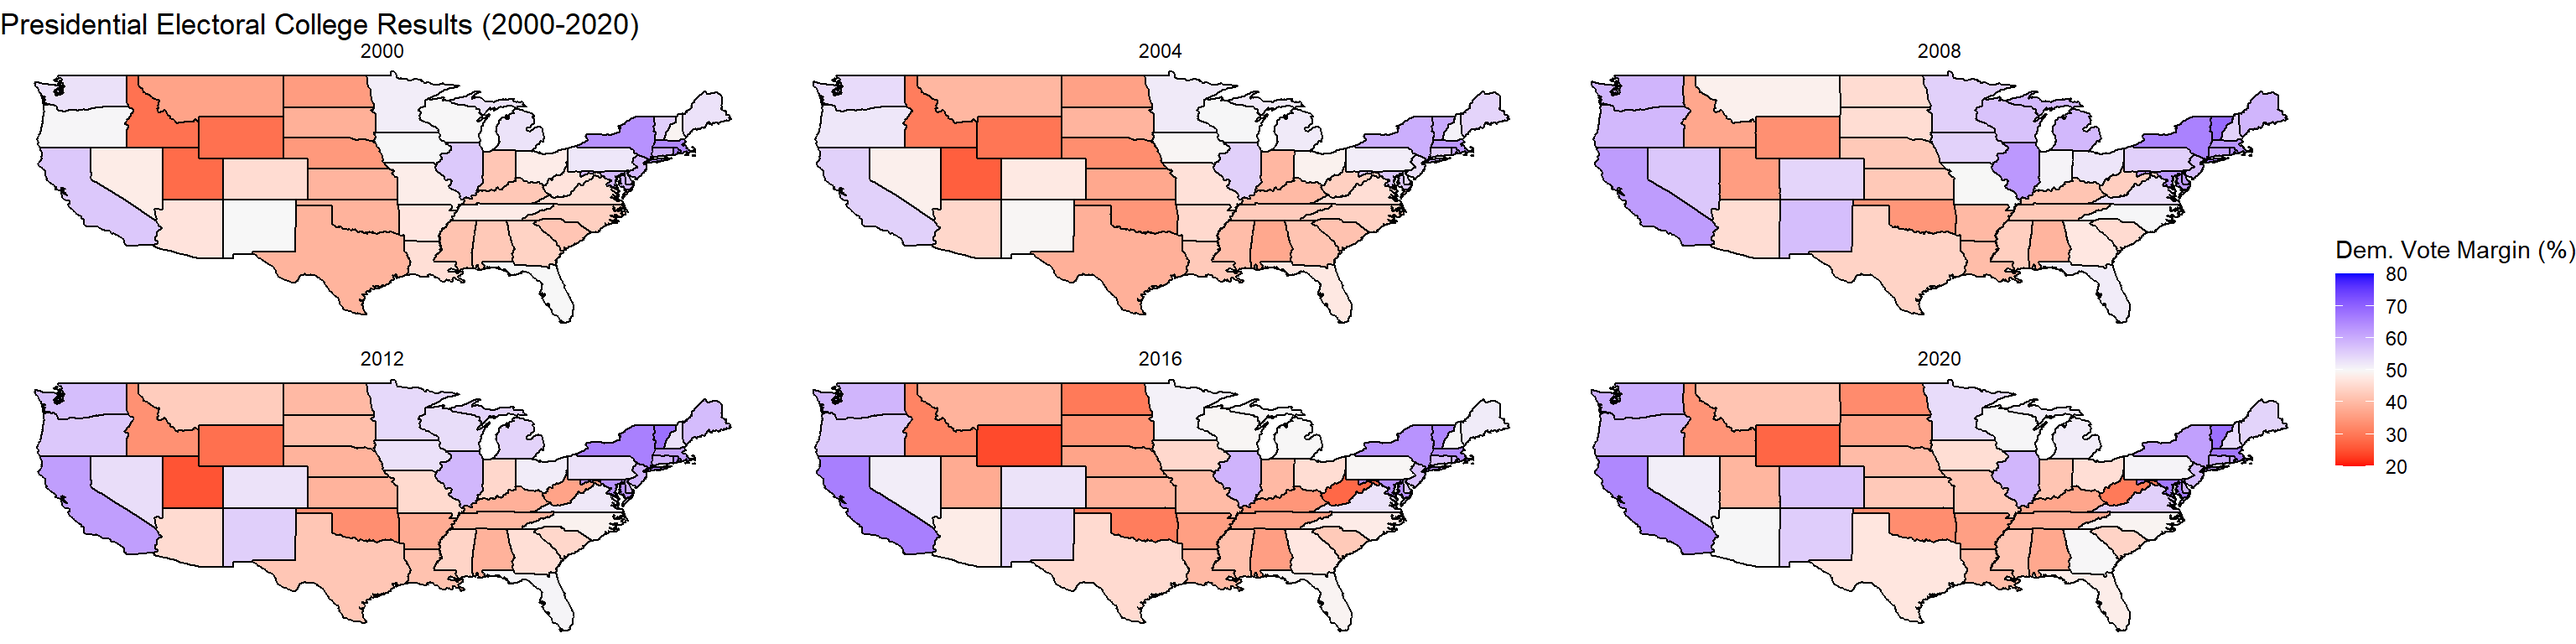
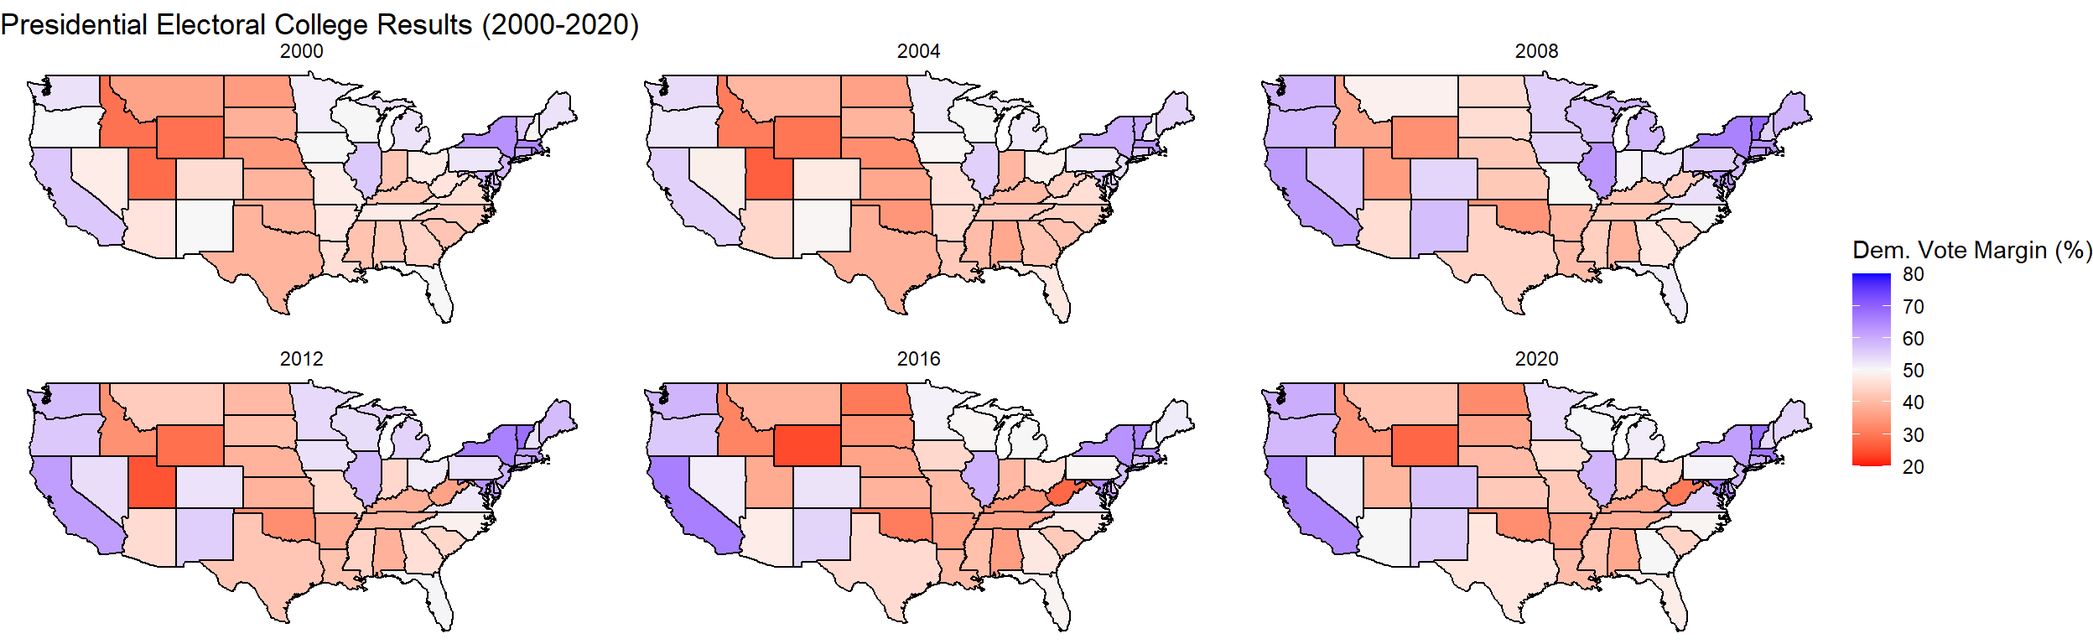
fixed dimensions prt. 3

diff --git a/public/post/2024/09/09/post-1/index.html b/public/post/2024/09/09/post-1/index.html
@@ -38,16 +38,16 @@
 <p>This is the first of a series of blog posts in which I will analyze and predict the 2024 Presidential Election. In my first post, I will analyze historical data from past presidential elections to determine how competitive presidential elections are, what states can be seen as reliable for either party, while what states are considered swing states.</p>
 <h2 id="what-states-are-competitive">What states are competitive?</h2>
 <p>To begin, I will examine the vote margins for each state in the Democratic and Republican parties&rsquo; presidential elections from 2000 to 2020. A brief overview shows that even the most partisan states had relatively close margins. Excluding D.C., every state was within 30 percentage points, and most were within 15 points. However, under the U.S. Electoral College system, whether state margins are 80-20 or 52-48, if they consistently vote for the same party, the margin does not affect the overall election outcome. The only states that genuinely impact the result are those with razor-thin margins capable of switching sides, and these states tend to be nearly white on the electoral map below.</p>
-<img src="https://example.org/post/2024/09/09/post-1/index_files/figure-html/unnamed-chunk-10-1.png" width="1536" />
+<img src="https://example.org/post/2024/09/09/post-1/index_files/figure-html/unnamed-chunk-10-1.png" width="1248" />
 <p>Certain swing states in 2000 and subsequent elections have trended towards one party, removing them from contention. Ohio and Iowa now lean Republican, while New Mexico, Oregon, and Minnesota lean Democratic. Texas appears to be inching toward swing state status but remains solidly Republican. Virginia presents an interesting case, having shifted from reliably red to reliably blue during this period.</p>
 <p>Pennsylvania, Wisconsin, Nevada, and Michigan have consistently been swing states throughout this period, including the most recent election. Conversely, Arizona, Georgia, and North Carolina have shifted from being reliably Republican to competitive. Florida is difficult to gauge; while its vote margins suggest swing state status, recent election results resemble those of more consistently red states like Iowa or Texas. Therefore, we&rsquo;ll reserve judgment until further analysis of more recent maps.</p>
 <h2 id="swing-map-1-2016-vs-2020">Swing Map #1: 2016 vs. 2020</h2>
 <p>This map examines the change in vote margins in each state between 2016 and 2020. As expected, most of the map is blue since a Republican won in 2016 but lost in 2020. However, a few noteworthy trends emerge. First, while much of the country shifted towards the Democrats, Florida moved further towards the Republicans. In my opinion, this shift is significant enough to remove Florida&rsquo;s status as a swing state. Florida moved towards a Republican candidate even as Republicans underperformed nationwide.</p>
-<img src="https://example.org/post/2024/09/09/post-1/index_files/figure-html/unnamed-chunk-11-1.png" width="1536" />
+<img src="https://example.org/post/2024/09/09/post-1/index_files/figure-html/unnamed-chunk-11-1.png" width="1248" />
 <p>Another interesting point is that New York and California, two Democratic strongholds, also trended Republican. These two states represent major electoral college strongholds for the Democrats. Many argue that recent trends make it unlikely for Democrats to lose the popular vote but still win the Electoral College. While this is mainly true, if these states continue to trend Republican, it could become possible in future elections.</p>
 <h2 id="swing-map-2-2012-vs-2020">Swing Map #2: 2012 vs. 2020</h2>
 <p>While the map comparing vote margins from 2016 to 2020 is interesting, there isn’t much detailed analysis to draw from it, as most of the country swung in favor of the party shift. A more fascinating comparison comes from looking at the 2012 and 2020 presidential elections, where Democratic candidates won both times. However, it’s important to note that the 2012 election was a more decisive victory for the Democrats. Obama won 126 more electoral votes than Romney, while Biden only won 74 more than Trump.</p>
-<img src="https://example.org/post/2024/09/09/post-1/index_files/figure-html/unnamed-chunk-12-1.png" width="1536" />
+<img src="https://example.org/post/2024/09/09/post-1/index_files/figure-html/unnamed-chunk-12-1.png" width="1248" />
 <p>This map supports earlier analysis. Arizona and Georgia stand out as they have become far more competitive for the Democratic Party, evolving into swing states. Conversely, Ohio, Iowa, and Florida have trended more Republican and are no longer considered swing states. Many traditional swing states in the Midwest and Nevada trended Republican, though this is expected, given that Obama won more significantly than Biden.</p>
 <p>Utah has become significantly more Democratic-leaning, though it remains far from becoming a swing state. Texas has also shifted noticeably toward the Democrats during this period, signaling its potential move toward swing state status. Interestingly, some reliably red states like Kansas and Idaho have trended more Democratic, while others, like North Dakota and West Virginia, have become significantly more Republican. I don&rsquo;t have a strong theory for why some traditionally Republican states shifted in opposite directions beyond basic immigration patterns.</p>
 <h2 id="concluding-thoughts">Concluding Thoughts</h2>

diff --git a/content/post/2024-09-06-post-1/index.md b/content/post/2024-09-06-post-1/index.md
@@ -42,7 +42,7 @@ This is the first of a series of blog posts in which I will analyze and predict 
 To begin, I will examine the vote margins for each state in the Democratic and Republican parties' presidential elections from 2000 to 2020. A brief overview shows that even the most partisan states had relatively close margins. Excluding D.C., every state was within 30 percentage points, and most were within 15 points. However, under the U.S. Electoral College system, whether state margins are 80-20 or 52-48, if they consistently vote for the same party, the margin does not affect the overall election outcome. The only states that genuinely impact the result are those with razor-thin margins capable of switching sides, and these states tend to be nearly white on the electoral map below.
 
 
-<img src="{{< blogdown/postref >}}index_files/figure-html/unnamed-chunk-10-1.png" width="1536" />
+<img src="{{< blogdown/postref >}}index_files/figure-html/unnamed-chunk-10-1.png" width="1248" />
 
 Certain swing states in 2000 and subsequent elections have trended towards one party, removing them from contention. Ohio and Iowa now lean Republican, while New Mexico, Oregon, and Minnesota lean Democratic. Texas appears to be inching toward swing state status but remains solidly Republican. Virginia presents an interesting case, having shifted from reliably red to reliably blue during this period.
 
@@ -52,7 +52,7 @@ Pennsylvania, Wisconsin, Nevada, and Michigan have consistently been swing state
 
 This map examines the change in vote margins in each state between 2016 and 2020. As expected, most of the map is blue since a Republican won in 2016 but lost in 2020. However, a few noteworthy trends emerge. First, while much of the country shifted towards the Democrats, Florida moved further towards the Republicans. In my opinion, this shift is significant enough to remove Florida's status as a swing state. Florida moved towards a Republican candidate even as Republicans underperformed nationwide.
 
-<img src="{{< blogdown/postref >}}index_files/figure-html/unnamed-chunk-11-1.png" width="1536" />
+<img src="{{< blogdown/postref >}}index_files/figure-html/unnamed-chunk-11-1.png" width="1248" />
 
 Another interesting point is that New York and California, two Democratic strongholds, also trended Republican. These two states represent major electoral college strongholds for the Democrats. Many argue that recent trends make it unlikely for Democrats to lose the popular vote but still win the Electoral College. While this is mainly true, if these states continue to trend Republican, it could become possible in future elections.
 
@@ -60,7 +60,7 @@ Another interesting point is that New York and California, two Democratic strong
 
 While the map comparing vote margins from 2016 to 2020 is interesting, there isn’t much detailed analysis to draw from it, as most of the country swung in favor of the party shift. A more fascinating comparison comes from looking at the 2012 and 2020 presidential elections, where Democratic candidates won both times. However, it’s important to note that the 2012 election was a more decisive victory for the Democrats. Obama won 126 more electoral votes than Romney, while Biden only won 74 more than Trump.
 
-<img src="{{< blogdown/postref >}}index_files/figure-html/unnamed-chunk-12-1.png" width="1536" />
+<img src="{{< blogdown/postref >}}index_files/figure-html/unnamed-chunk-12-1.png" width="1248" />
 
 This map supports earlier analysis. Arizona and Georgia stand out as they have become far more competitive for the Democratic Party, evolving into swing states. Conversely, Ohio, Iowa, and Florida have trended more Republican and are no longer considered swing states. Many traditional swing states in the Midwest and Nevada trended Republican, though this is expected, given that Obama won more significantly than Biden.
 
